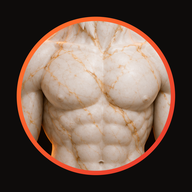
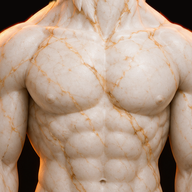
Torna all'icona piena del torso di marmo

diff --git a/index.html b/index.html
@@ -7,8 +7,8 @@
 <meta name="theme-color" content="#290712">
 <meta name="robots" content="noindex">
 <link rel="manifest" href="manifest.webmanifest">
-<link rel="icon" href="icon-192.png?v=10" type="image/png">
-<link rel="apple-touch-icon" href="apple-touch-icon.png?v=10">
+<link rel="icon" href="icon-192.png?v=11" type="image/png">
+<link rel="apple-touch-icon" href="apple-touch-icon.png?v=11">
 <style>
   :root{color-scheme:dark;--bg:#290712;--fg:#F4EFEC;--muted:#A39A95;--accent:#F26B38;--accent-2:#D23A3A}
   *{box-sizing:border-box}
@@ -27,7 +27,7 @@
 </head>
 <body>
 <main>
-  <img src="icon-512.png?v=10" alt="">
+  <img src="icon-512.png?v=11" alt="">
   <h1>Body Temple</h1>
   <p id="msg">Installa l'app per averla sulla schermata Home, con questa icona.</p>
   <button class="btn" id="install" type="button" hidden>Installa l'app</button>
